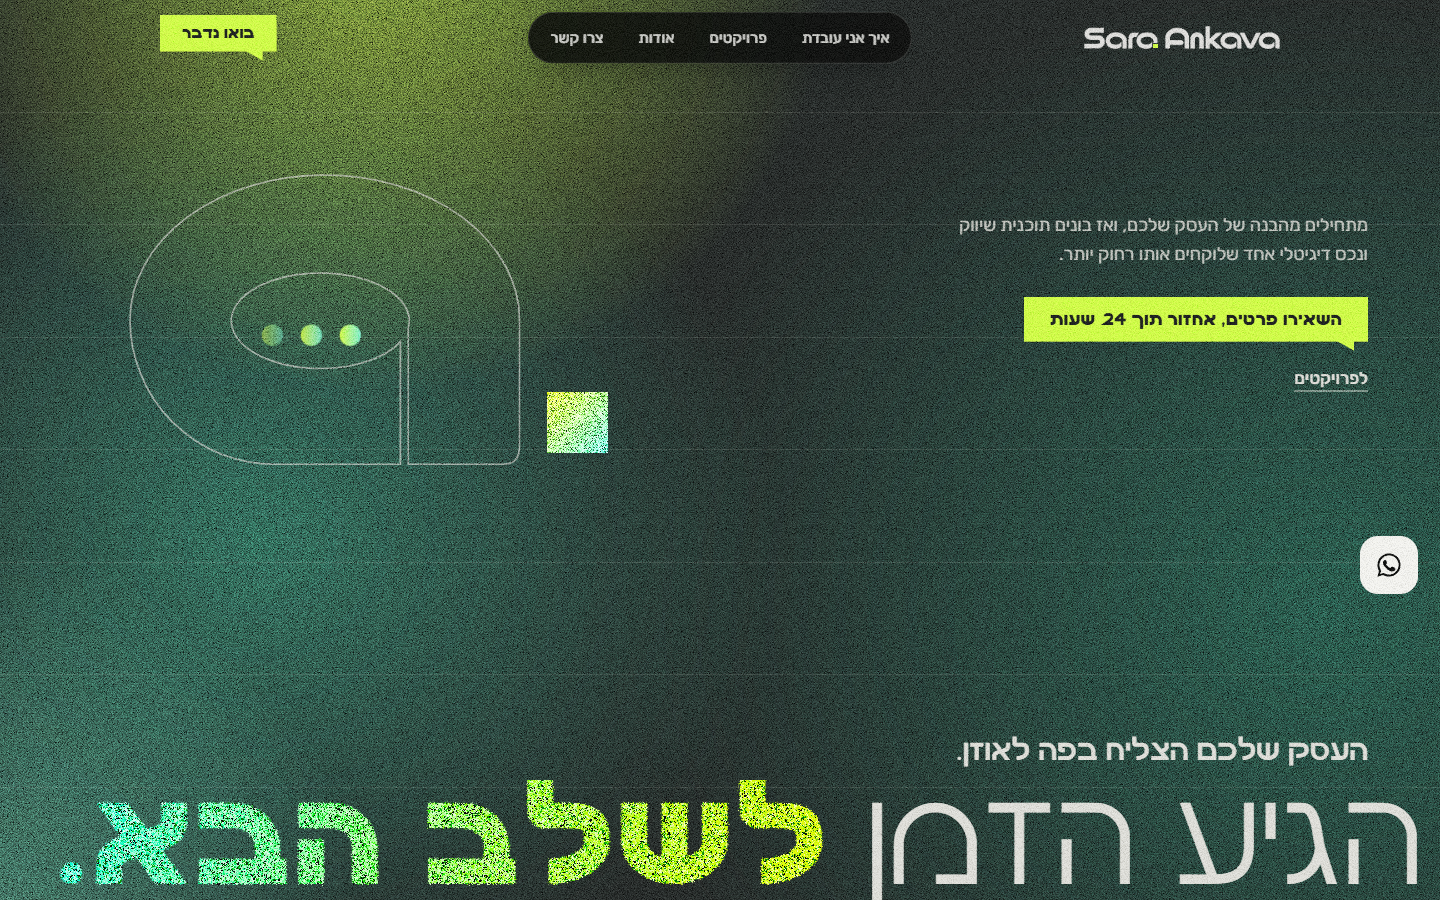
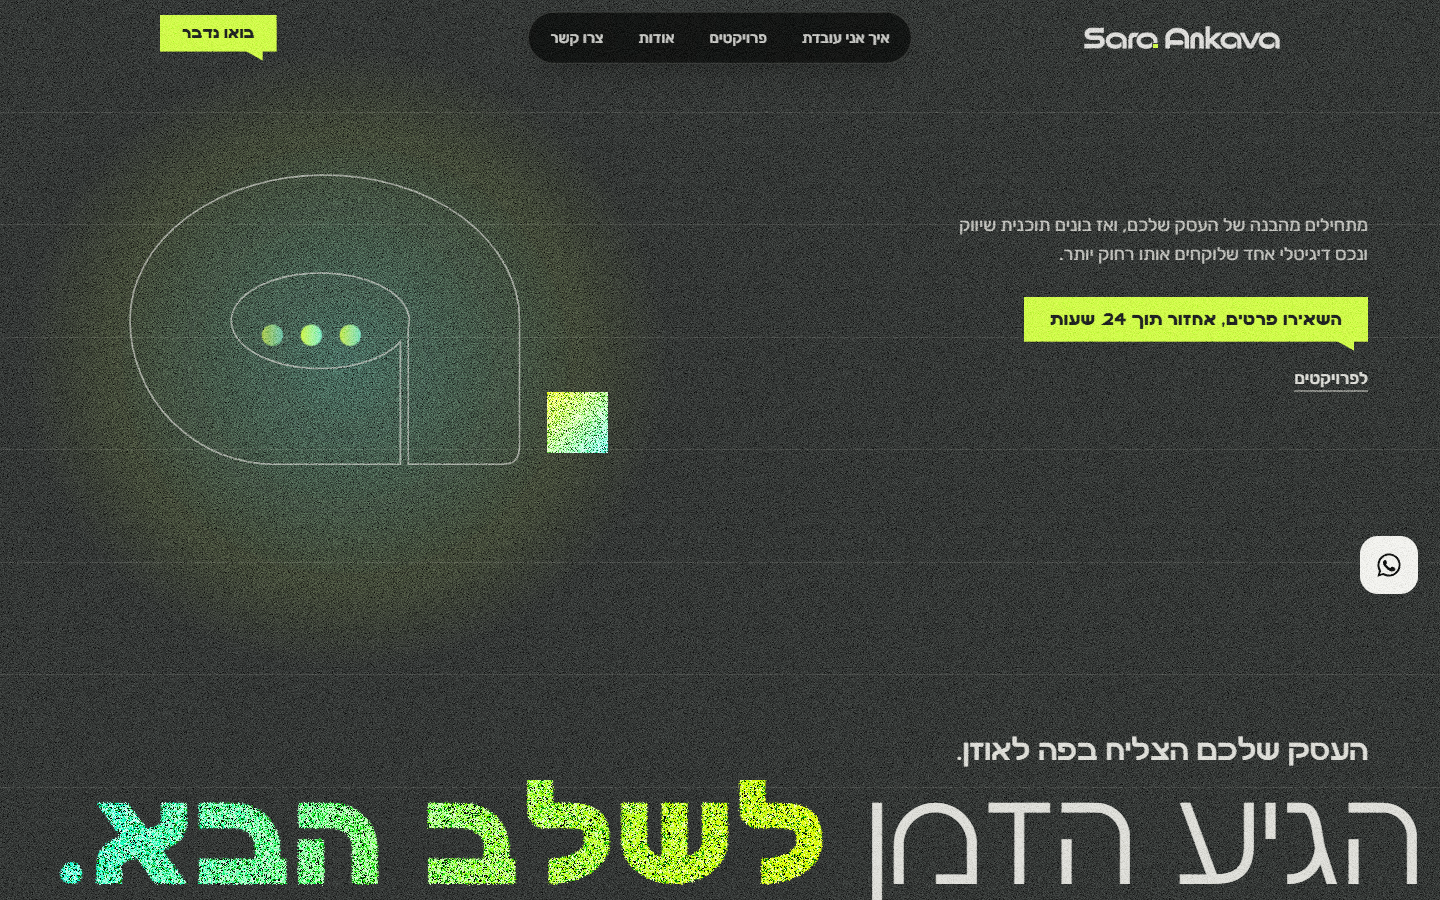
v6 hero: grey grainy background, faint halo only around the element

diff --git a/versions/v6/assets/css/v6.css b/versions/v6/assets/css/v6.css
@@ -101,3 +101,8 @@ body::before{opacity:.5;mix-blend-mode:overlay;background-image:var(--v6-n);back
   background-size:170px auto,auto,auto,auto,auto;background-blend-mode:overlay,normal,normal,normal,normal}
 .contact .eyebrow,.contact .fine,.contact .or-wa,.contact .linkbtn,.contact label,.contact h2,.contact p{color:var(--v6-paper)}
 .contact .eyebrow::before,.contact .sq,.contact__promise i{background:var(--v6-lime)}
+
+/* הירו: רקע אפור מגורען, רק הילה עדינה סביב האלמנט */
+.h6.gx{--gx-base:#1b1d1c;
+  background-image:var(--v6-n),radial-gradient(30% 46% at 24% 40%,rgb(107 240 196 / .16),rgb(200 255 58 / .05) 55%,transparent 75%);
+  background-size:170px auto,auto;background-blend-mode:overlay,normal}

diff --git a/versions/v6/index.html b/versions/v6/index.html
@@ -18,7 +18,7 @@
 <link rel="preload" href="assets/fonts/SaraAnkava-Bold-v1.2.woff2" as="font" type="font/woff2" crossorigin>
 <link rel="stylesheet" href="assets/css/style.css?v=4">
 <link rel="stylesheet" href="assets/css/v4.css?v=2">
-<link rel="stylesheet" href="assets/css/v6.css?v=14">
+<link rel="stylesheet" href="assets/css/v6.css?v=15">
 <meta name="robots" content="noindex">
 <script>document.documentElement.classList.add('js');setTimeout(function(){if(!window.__saReady)document.documentElement.classList.remove('js')},3000)</script>
 <script type="application/ld+json">
